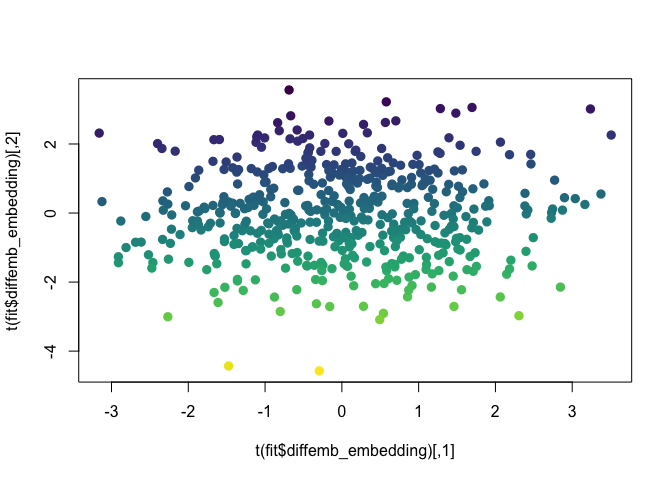
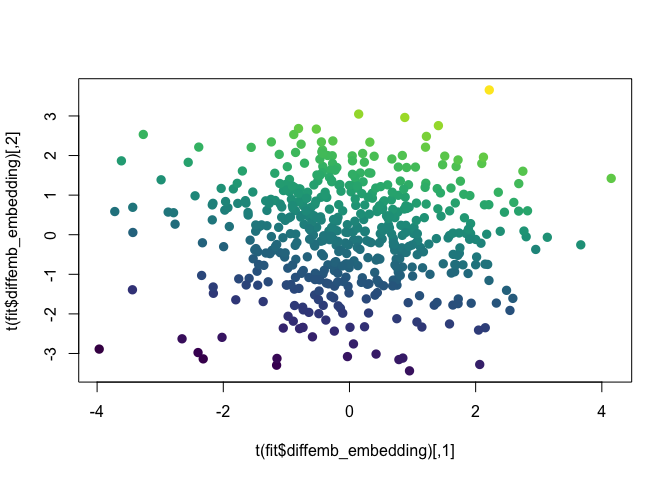
Update README

diff --git a/README.md b/README.md
@@ -24,7 +24,7 @@ To get read access you have set the following *access token* which is
 valid until the 31.08.2022.
 
 ``` r
-Sys.setenv(GITLAB_PAT = "glpat-_2uHibDPXsgcs9kYxMsM")
+Sys.setenv(GITLAB_PAT = "glpat-KvTnh36v4jitb_yQaEch")
 remotes::install_gitlab(repo = "ahlmanne/DiffEmbSeq", host = "https://git.embl.de/")
 ```
 
@@ -43,10 +43,16 @@ Fit the model
 fit <- DiffEmbSeq::differential_embedding(mat, design = ~ condition, col_data = col_data,
                                           n_ambient = 10, n_embedding = 2)
 #> Fit ambient PCA
-#> Regress out global effects
 #> Find base point for differential embedding
-#> Fit Grassmann linear model
-#> Align points
+#> Fit differential embedding model
+#> -Iteration: 0    error: 6.47e+03
+#> ---Fit Grassmann linear model
+#> ---Update linear regression
+#> -Iteration: 1    error: 4.85e+03
+#> ---Fit Grassmann linear model
+#> ---Update linear regression
+#> -Iteration: 2    error: 4.85e+03
+#> Converged
 fit
 #> class: DiffEmbFit 
 #> dim: 30 500 
@@ -68,30 +74,30 @@ round(fit$diffemb_coefficients, 5)
 #> , , Intercept
 #> 
 #>           [,1]     [,2]
-#>  [1,]  0.00201 -0.00393
-#>  [2,] -0.00119  0.00207
-#>  [3,]  0.06324  0.33867
-#>  [4,] -0.23304 -0.46719
-#>  [5,]  0.08602  0.46378
-#>  [6,] -0.13781  0.09502
-#>  [7,] -0.09884 -0.14099
-#>  [8,] -0.13983  0.24415
-#>  [9,]  0.15734 -0.05495
-#> [10,] -0.03631 -0.03797
+#>  [1,]  0.00000  0.00000
+#>  [2,]  0.00000  0.00000
+#>  [3,] -0.51930  0.61979
+#>  [4,] -0.32508  0.06652
+#>  [5,]  0.20514 -0.29096
+#>  [6,]  0.22391  0.01630
+#>  [7,] -0.24185 -0.07071
+#>  [8,]  0.17054 -0.16438
+#>  [9,] -0.07646 -0.06271
+#> [10,] -0.03062  0.00817
 #> 
 #> , , conditionb
 #> 
 #>           [,1]     [,2]
-#>  [1,] -0.01751  0.01812
-#>  [2,]  0.01143 -0.01220
-#>  [3,]  0.19583 -1.18850
-#>  [4,]  1.05134  0.32174
-#>  [5,]  0.13315 -0.93826
-#>  [6,]  0.78204 -0.32090
-#>  [7,] -0.01098  0.25181
-#>  [8,] -0.15715  0.20281
-#>  [9,] -0.16325 -0.04712
-#> [10,] -0.22024  0.10941
+#>  [1,]  0.00000  0.00000
+#>  [2,]  0.00000  0.00000
+#>  [3,]  0.58501 -1.38694
+#>  [4,]  0.60686  0.51942
+#>  [5,] -0.20612  0.10382
+#>  [6,] -0.54786 -0.03385
+#>  [7,]  0.34128  0.27822
+#>  [8,] -0.16600  0.07207
+#>  [9,]  0.11197  0.20350
+#> [10,] -0.03057  0.01884
 plot(t(fit$diffemb_embedding), col = as.factor(col_data$condition))
 ```
 
@@ -138,13 +144,13 @@ res <- DiffEmbSeq::test_differential_expression(fit, contrast = fact(condition =
                                                 consider = "embedding+linear", variance_est = "bootstrap", 
                                                 return = "table")
 head(res)
-#>     feature   obs       pval  adj_pval          diff     adj_diff        sd
-#> 1 feature_1 obs_1 0.99885395 0.9998219  0.0003341028  0.001436355 0.2326046
-#> 2 feature_2 obs_1 0.33439082 0.9998219 -0.2372139626 -0.965307483 0.2457393
-#> 3 feature_3 obs_1 0.07314758 0.9998219  0.5001220937  1.791908762 0.2791002
-#> 4 feature_4 obs_1 0.44902426 0.9998219  0.2108653023  0.757042729 0.2785382
-#> 5 feature_5 obs_1 0.63679548 0.9998219 -0.0851523931 -0.472183976 0.1803373
-#> 6 feature_6 obs_1 0.94997553 0.9998219 -0.0183343559 -0.062737513 0.2922391
+#>     feature   obs      pval  adj_pval        diff   adj_diff        sd
+#> 1 feature_1 obs_1 0.8689930 0.9956089 -0.04006239 -0.1649377 0.2428940
+#> 2 feature_2 obs_1 0.5717281 0.9750561  0.17651967  0.5655083 0.3121434
+#> 3 feature_3 obs_1 0.6291247 0.9837155 -0.16292456 -0.4829591 0.3373465
+#> 4 feature_4 obs_1 0.7890687 0.9899962  0.06962060  0.2675201 0.2602444
+#> 5 feature_5 obs_1 0.6699281 0.9878032  0.08134729  0.4262467 0.1908456
+#> 6 feature_6 obs_1 0.8437783 0.9931445 -0.04825848 -0.1970630 0.2448886
 ```
 
 Show the gene expression changes on the latent embedding
